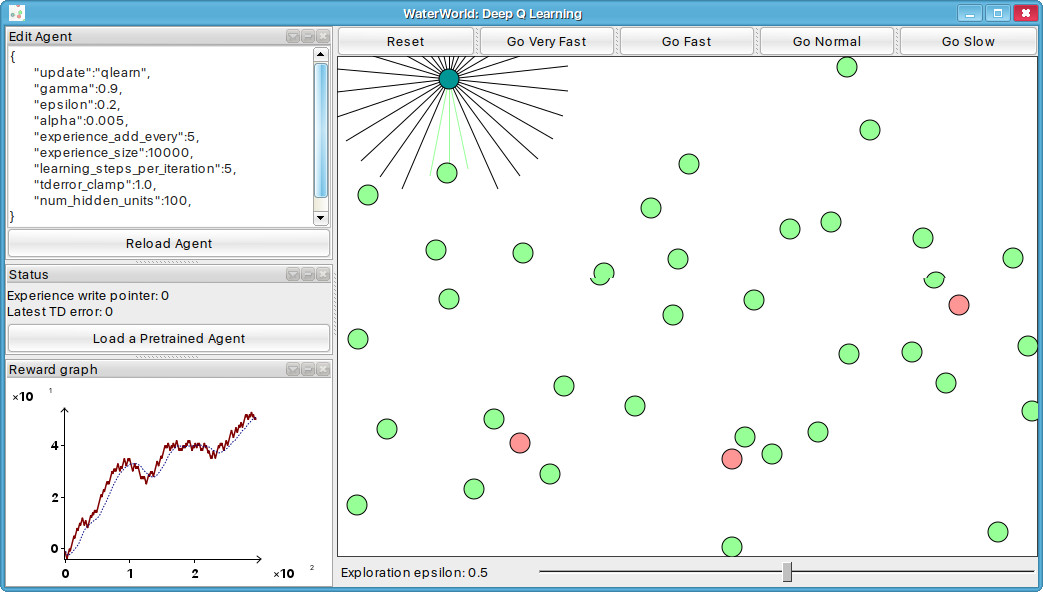
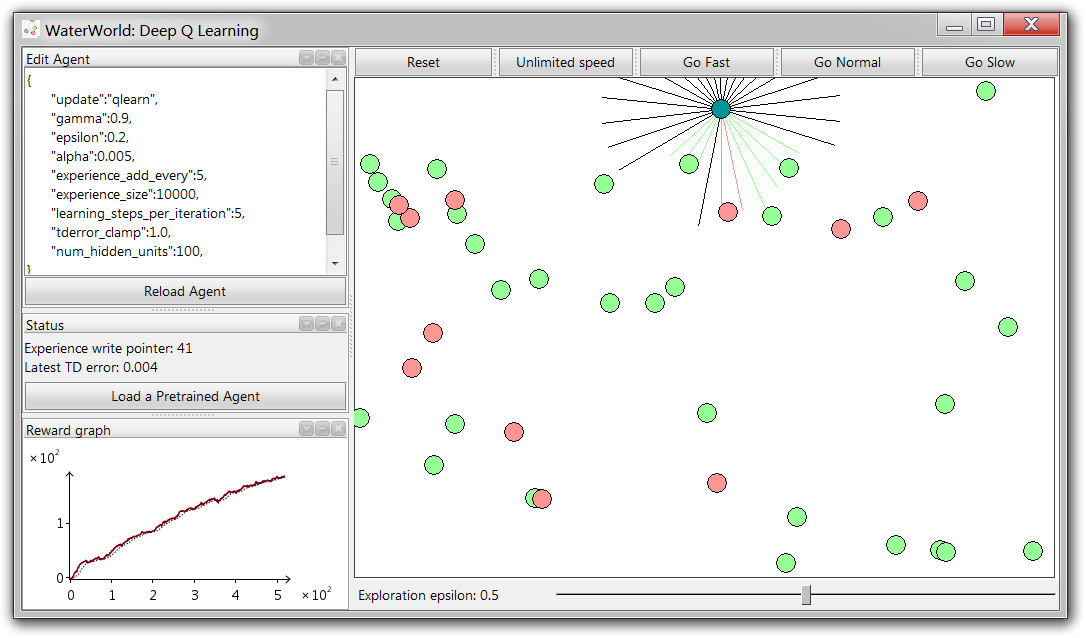
WaterWorld: rendering speed fix

diff --git a/examples/WaterWorld/WaterWorld.cpp b/examples/WaterWorld/WaterWorld.cpp
@@ -49,7 +49,7 @@ WaterWorld::WaterWorld() {
 	lbl_eps.SetLabel("Exploration epsilon: ");
 	btnsplit.Horz();
 	btnsplit << reset << goveryfast << gofast << gonorm << goslow;
-	goveryfast.SetLabel("Go Very Fast");
+	goveryfast.SetLabel("Unlimited speed");
 	gofast.SetLabel("Go Fast");
 	gonorm.SetLabel("Go Normal");
 	goslow.SetLabel("Go Slow");
@@ -74,7 +74,6 @@ WaterWorld::~WaterWorld() {
 }
 
 void WaterWorld::Tick() {
-	// "Normal" is a little bit slower than fastest
 	if      (simspeed == 2) Sleep(1);
 	if      (simspeed == 1) Sleep(10);
 	else if (simspeed == 0) Sleep(100);
@@ -99,7 +98,6 @@ void WaterWorld::DockInit() {
 void WaterWorld::Refresher() {
 	world.Refresh();
 	RefreshStatus();
-	
 	if (running) PostCallback(THISBACK(Refresher));
 }
 

diff --git a/examples/WaterWorld/WaterWorldAgent.cpp b/examples/WaterWorld/WaterWorldAgent.cpp
@@ -3,6 +3,7 @@
 
 WaterWorldAgent::WaterWorldAgent() {
 	nflot = 1000;
+	iter = 0;
 	
 	// positional information
 	p.x = 300;
@@ -68,9 +69,9 @@ void WaterWorldAgent::Backward() {
 	if (do_training)
 		DQNAgent::Learn(reward);
 	
-	if (reward != 0.0) {
-		smooth_reward += reward;
-		
+	smooth_reward += reward;
+	
+	if (iter % 50 == 0) {
 		while (smooth_reward_history.GetCount() >= nflot) {
 			smooth_reward_history.Remove(0);
 		}
@@ -78,7 +79,10 @@ void WaterWorldAgent::Backward() {
 		
 		world->reward.SetLimit(nflot);
 		world->reward.AddValue(smooth_reward);
+		
+		iter = 0;
 	}
+	iter++;
 }
 
 void WaterWorldAgent::Reset() {

diff --git a/examples/WaterWorld/WaterWorld.h b/examples/WaterWorld/WaterWorld.h
@@ -118,7 +118,7 @@ public:
 	double smooth_reward;
 	double reward;
 	double rad, digestion_signal;
-	int nflot;
+	int nflot, iter;
 	int action;
 	bool do_training;
 	
@@ -182,6 +182,7 @@ public:
 	void RefreshEpsilon();
 	void LoadPretrained();
 	void RefreshStatus();
+	void PostRefreshStatus() {PostCallback(THISBACK(RefreshStatus));}
 	void Tick();
 	void Ticking();
 	void SetSpeed(int i);
